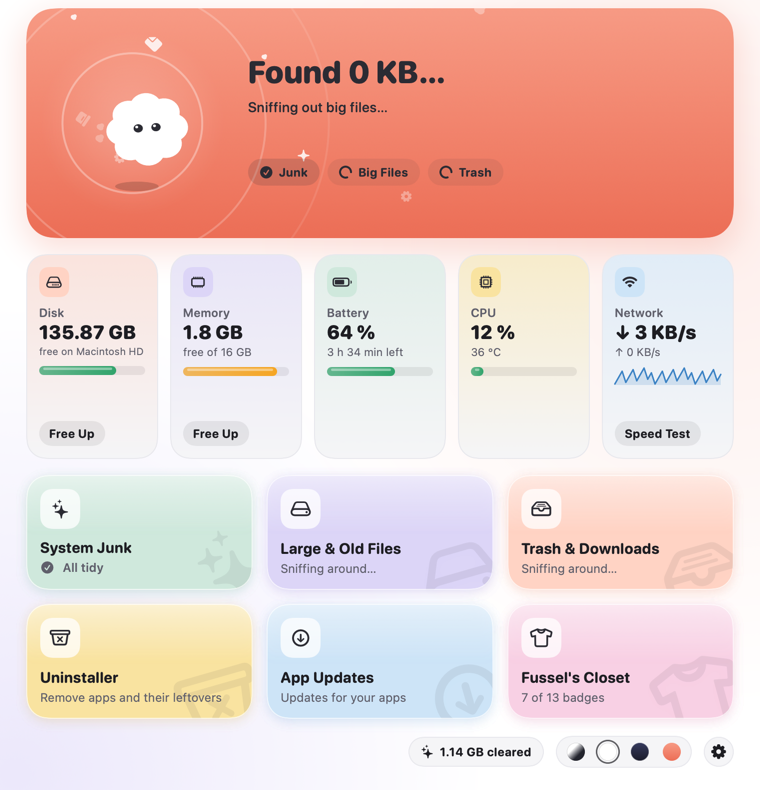
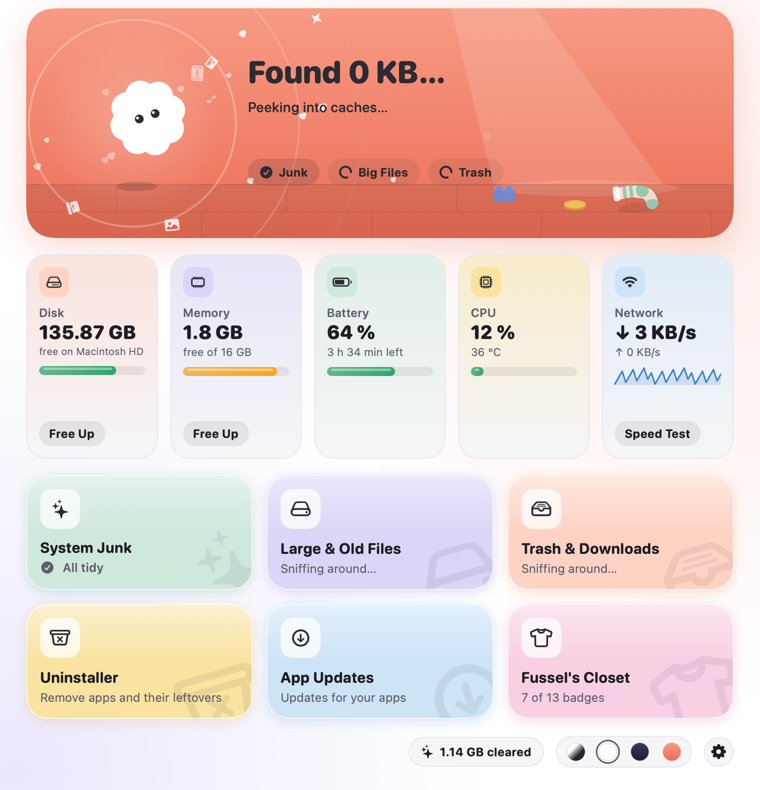
Fussel 0.8.3: a little world in the hero, new screenshots

diff --git a/release-notes/0.8.3.md b/release-notes/0.8.3.md
@@ -1,0 +1,79 @@
+<p align="center">
+  <img src="https://github.com/Dshamil/fussel/blob/main/docs/logo.png?raw=true" width="180" alt="Fussel app icon">
+</p>
+
+<h1 align="center">Fussel 0.8.3 Beta</h1>
+
+<p align="center"><b>A small, friendly Mac cleaner.</b><br>Fussel finds the fluff on your Mac and moves it to the Trash.</p>
+
+<p align="center">
+  <img src="https://github.com/Dshamil/fussel/blob/main/docs/screenshots/styles.png?raw=true" alt="Fussel in White, Dark and Coral style">
+</p>
+
+## New in 0.8.3
+
+- **Fussel has a little world now:** the big banner shows a cozy floor with wooden boards and a soft beam of light falling in. A few lost things are lying around: a Lego brick, a coin and a floppy striped sock
+- **Fluff you can see:** while Fussel scans, little fluff piles grow on the floor. They show how much was found, and after cleaning they're gone and the floor is spotless
+- **Fussel stays the star:** the world is drawn soft and muted, so he still stands out. It only redraws when the fluff piles change, so it costs no battery
+- **Nicer scan chips:** the little spinners in the Junk, Big Files and Trash chips now match the banner's colors
+
+## New in 0.8.2
+
+- **A livelier main screen:** the six cards wear their own colors, with a big playful symbol in the corner. Hover over one and a little Fussel peeks over its edge, while the card tilts towards your pointer
+- **Friendlier tiles:** the disk, memory, battery, CPU and network tiles are softly tinted and their bars fill up with a bounce
+
+<p align="center">
+  <img src="https://github.com/Dshamil/fussel/blob/main/docs/icons-0.8.png?raw=true" width="640" alt="Fussel's app icons">
+</p>
+
+## What's inside
+
+- **One-click scan** for system junk (caches, logs, Xcode build data), large and old files, the Trash and old downloads
+- **Uninstaller** that removes apps together with their support files, caches and preferences
+- **Your Mac at a glance:** free disk space, memory, battery, CPU load and temperature, and live network speed with a built-in speed test
+- **Free up memory** by quitting the hungriest apps, right from the memory tile
+- **Three styles:** White, Dark and Coral, or follow the system automatically
+- **Fussel himself:** blinks, follows your pointer, does a flip when you poke him, slurps up files while scanning and celebrates with confetti
+- **A playful tutorial** on first launch (right-click the menu bar icon › Show Tutorial to see it again)
+- **Undo, history, moods and a weekly reminder** so Fussel feels like a little companion
+- **Lives in your menu bar:** no Dock icon. Click the little fluff next to the clock to open Fussel, right-click for a quick scan, the tutorial, settings or quit
+- **Starts with your Mac** and quietly waits in the background (turn it off in Settings)
+
+<p align="center">
+  <img src="https://github.com/Dshamil/fussel/blob/main/docs/screenshots/scan.png?raw=true" width="420" alt="Fussel scanning">
+  <img src="https://github.com/Dshamil/fussel/blob/main/docs/screenshots/tutorial.png?raw=true" width="420" alt="Fussel tutorial">
+</p>
+
+## Safety first
+
+Everything Fussel cleans goes to the **Trash first**, so you can always put it back. Only items that are already in the Trash are deleted for good, and Fussel asks before doing that. System files, Apple apps and your main folders are never touched.
+
+## Install
+
+**Recommended: the installer**
+
+1. Download **Fussel-Installer.pkg** below and open it.
+2. This beta isn't signed with an Apple Developer ID yet, so macOS blocks it at first. Open **System Settings › Privacy & Security**, scroll down and click **Open Anyway** next to the Fussel installer.
+3. Click through the installer. Fussel lands in your Applications folder and appears in the menu bar, next to the clock.
+4. Recommended: allow **Full Disk Access** in System Settings › Privacy & Security, so Fussel can reach the Trash and every hidden cache.
+
+**Or: drag and drop**
+
+Open **Fussel.dmg** and drag Fussel onto the Applications folder. Before the first launch, run this once in Terminal:
+```
+xattr -dr com.apple.quarantine /Applications/Fussel.app
+```
+
+Requires macOS 14 Sonoma or later. Runs natively on Apple Silicon and Intel.
+
+**Using Fussel:** click the fluff in the menu bar to open or close the window. Right-click it for Scan Mac, Show Tutorial, Settings and Quit. Closing the window keeps Fussel running in the background.
+
+## Beta notes
+
+- This is a beta: things may still wobble. Please report anything odd as an issue, screenshots help a lot.
+- The CPU temperature isn't available on every Mac; Fussel then shows Cool, Warm or Hot instead.
+- After an update, macOS may ask for Full Disk Access again.
+- Updating: just run the new installer. It quits the old Fussel and replaces it.
+- Undo only works while the items are still in the Trash.
+- Fussel checks for its own updates on GitHub. That works as soon as the GitHub page is public.
+- Changing the app icon needs Fussel to be installed with the installer (0.8.0 or newer).
